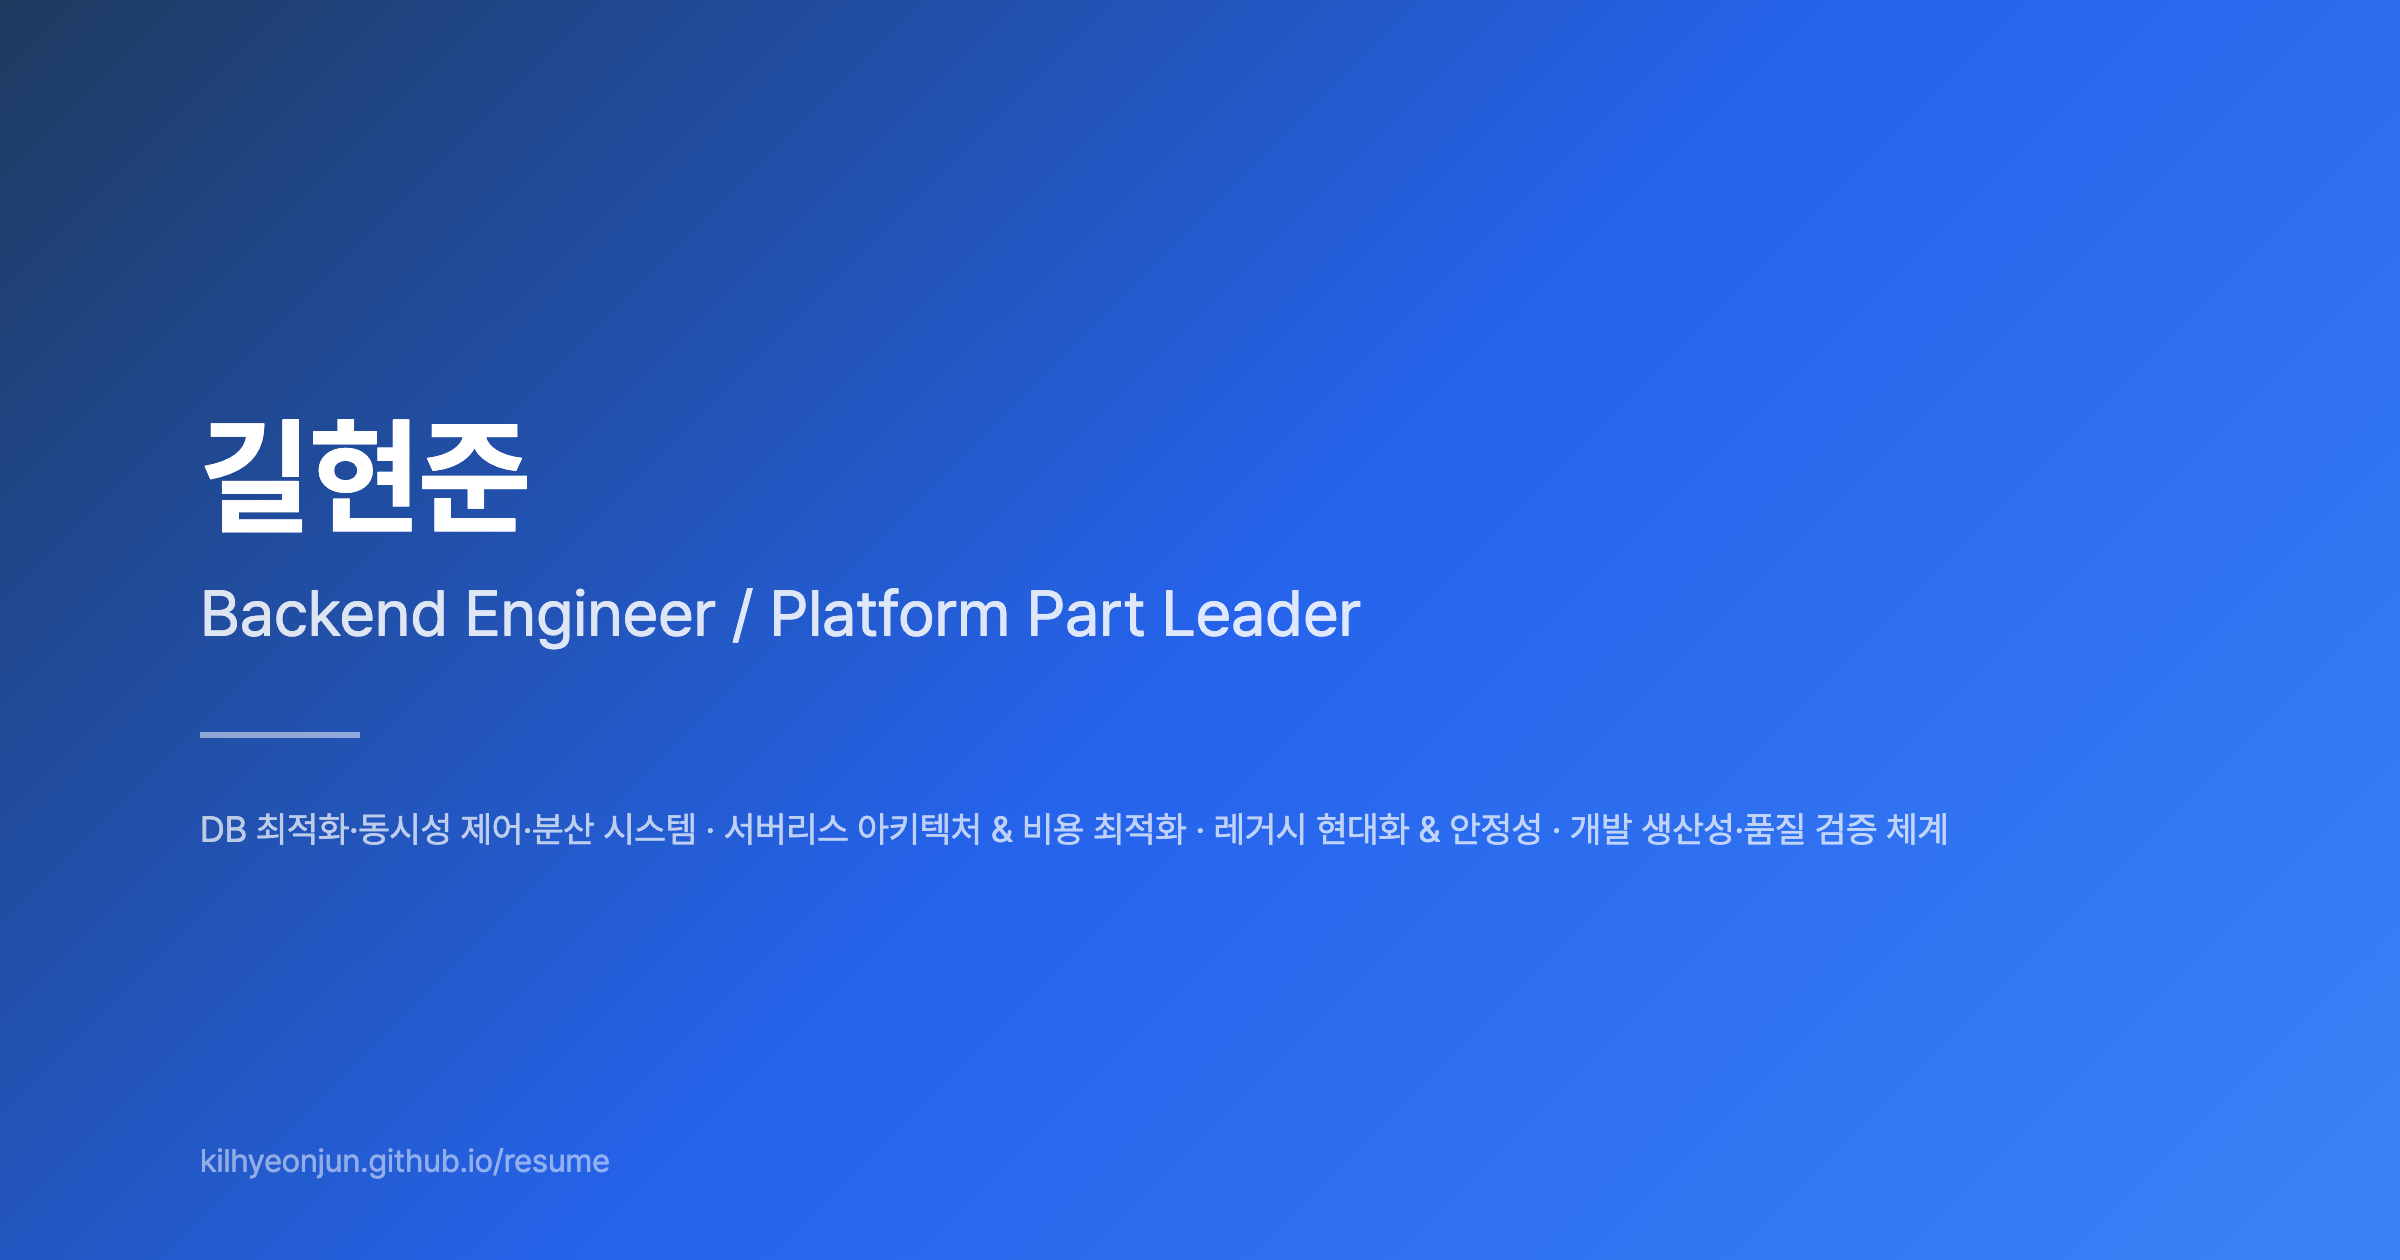
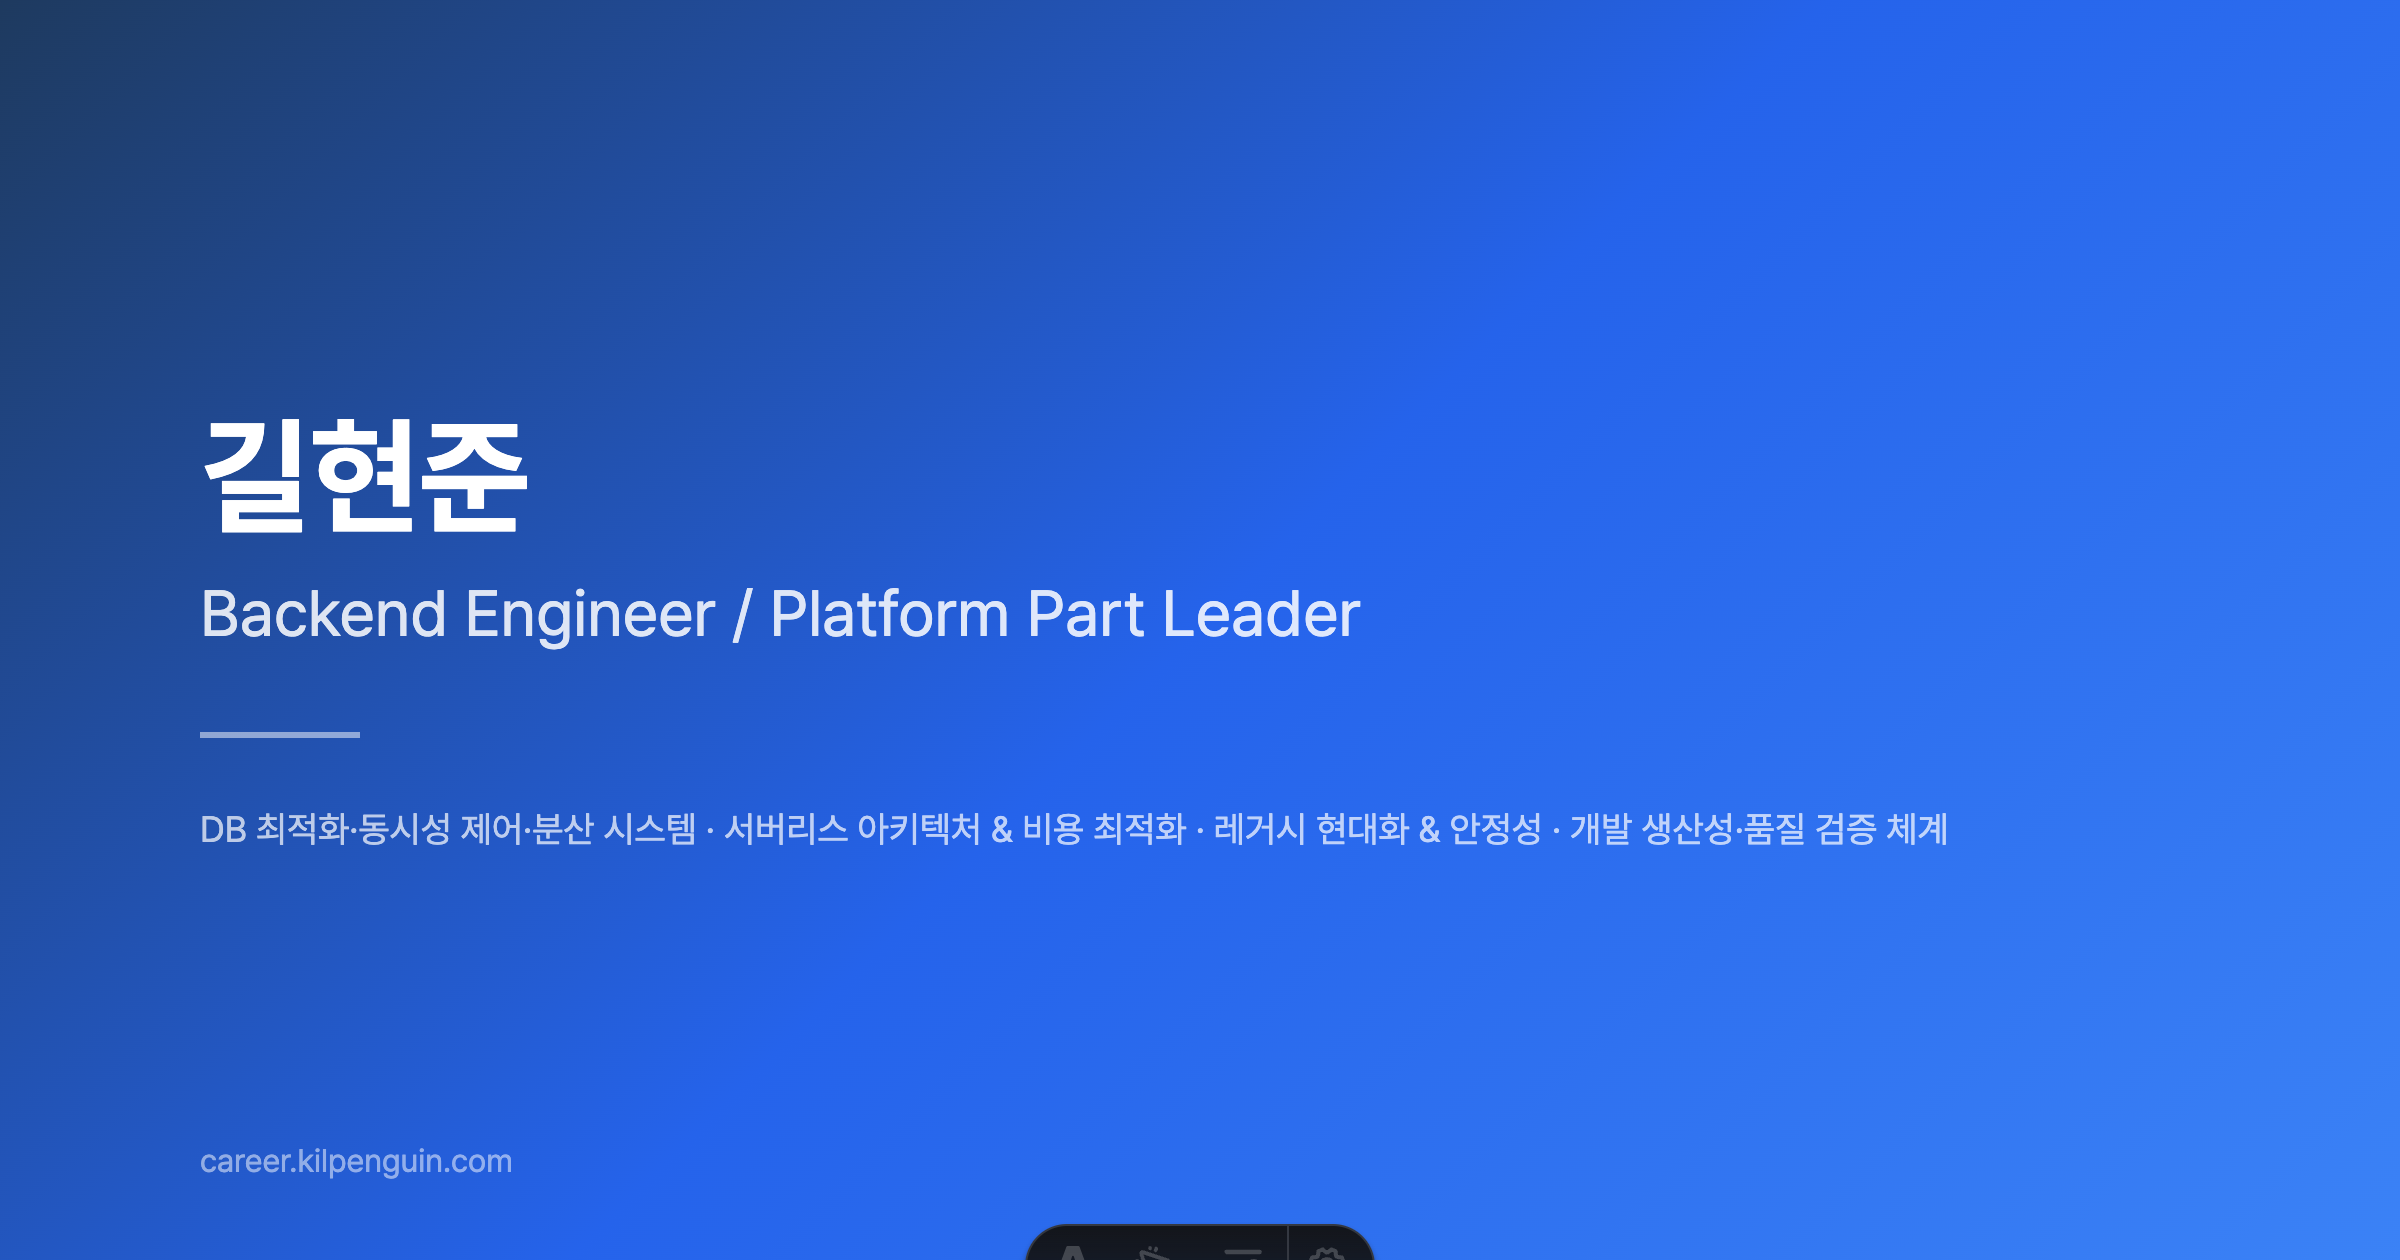
fix: move career site to dedicated domain (#3)
* fix: move career site to dedicated domain

* fix: pin release generators to IPv4

Changed region(s): [[0.4062, 0.9595, 0.5938, 1.0], [0.0938, 0.8976, 0.25, 0.9286]]

diff --git a/scripts/generate-og.ts b/scripts/generate-og.ts
@@ -20,11 +20,13 @@ const __dirname = dirname(fileURLToPath(import.meta.url));
 async function main(): Promise<void> {
   const args = process.argv.slice(2);
   const baseUrlIndex = args.indexOf('--base-url');
-  const baseUrl = baseUrlIndex !== -1 ? args[baseUrlIndex + 1] : 'http://localhost:4321/resume';
-  const outputPath = resolve(__dirname, '..', 'public', 'og-image.png');
+  const baseUrl = (baseUrlIndex !== -1 ? args[baseUrlIndex + 1] : 'http://127.0.0.1:4321').replace(/\/+$/, '');
+  const outputIndex = args.indexOf('--output');
+  const outputPath = outputIndex !== -1 ? resolve(args[outputIndex + 1]) : resolve(__dirname, '..', 'public', 'og-image.png');
+  const ogUrl = `${baseUrl}/og-image`;
 
   console.log('\n🖼  OG Image Generator\n');
-  console.log(`   URL: ${baseUrl}/og-image`);
+  console.log(`   URL: ${ogUrl}`);
   console.log(`   Output: ${outputPath}\n`);
 
   let browser = null;
@@ -48,10 +50,17 @@ async function main(): Promise<void> {
       deviceScaleFactor: 2,
     });
 
-    await page.goto(`${baseUrl}/og-image`, {
+    const response = await page.goto(ogUrl, {
       waitUntil: 'networkidle0',
       timeout: 30000,
     });
+    if (!response?.ok()) {
+      throw new Error(`Refusing to generate OG image from HTTP ${response?.status() ?? 'unknown'}: ${ogUrl}`);
+    }
+    const validPage = await page.$('.container h1.name');
+    if (!validPage) {
+      throw new Error(`Refusing to generate OG image from an unexpected page: ${ogUrl}`);
+    }
 
     // Wait for fonts and rendering
     await page.waitForFunction(

diff --git a/scripts/generate-pdf.ts b/scripts/generate-pdf.ts
@@ -195,7 +195,7 @@ async function main(): Promise<void> {
   const generateEn = args.includes('--en') || (!args.includes('--ko'));
   
   const baseUrlIndex = args.indexOf('--base-url');
-  const baseUrl = baseUrlIndex !== -1 ? args[baseUrlIndex + 1] : 'http://localhost:4321/resume';
+  const baseUrl = baseUrlIndex !== -1 ? args[baseUrlIndex + 1] : 'http://127.0.0.1:4321';
 
   try { new URL(baseUrl); } catch { throw new Error(`Invalid base URL: ${baseUrl}`); }
   

diff --git a/src/utils/paths.ts b/src/utils/paths.ts
@@ -2,3 +2,7 @@ export function getBasePath(lang: 'ko' | 'en'): string {
   const base = import.meta.env.BASE_URL.replace(/\/$/, '');
   return lang === 'en' ? `${base}/en` : base;
 }
+
+export function withBasePath(path: string): string {
+  return `${import.meta.env.BASE_URL}${path.replace(/^\/+/, '')}`;
+}

diff --git a/README.md b/README.md
@@ -4,7 +4,7 @@
 
 ## Live
 
-https://blog.kilpenguin.com/resume/
+https://career.kilpenguin.com/
 
 ## Features
 
